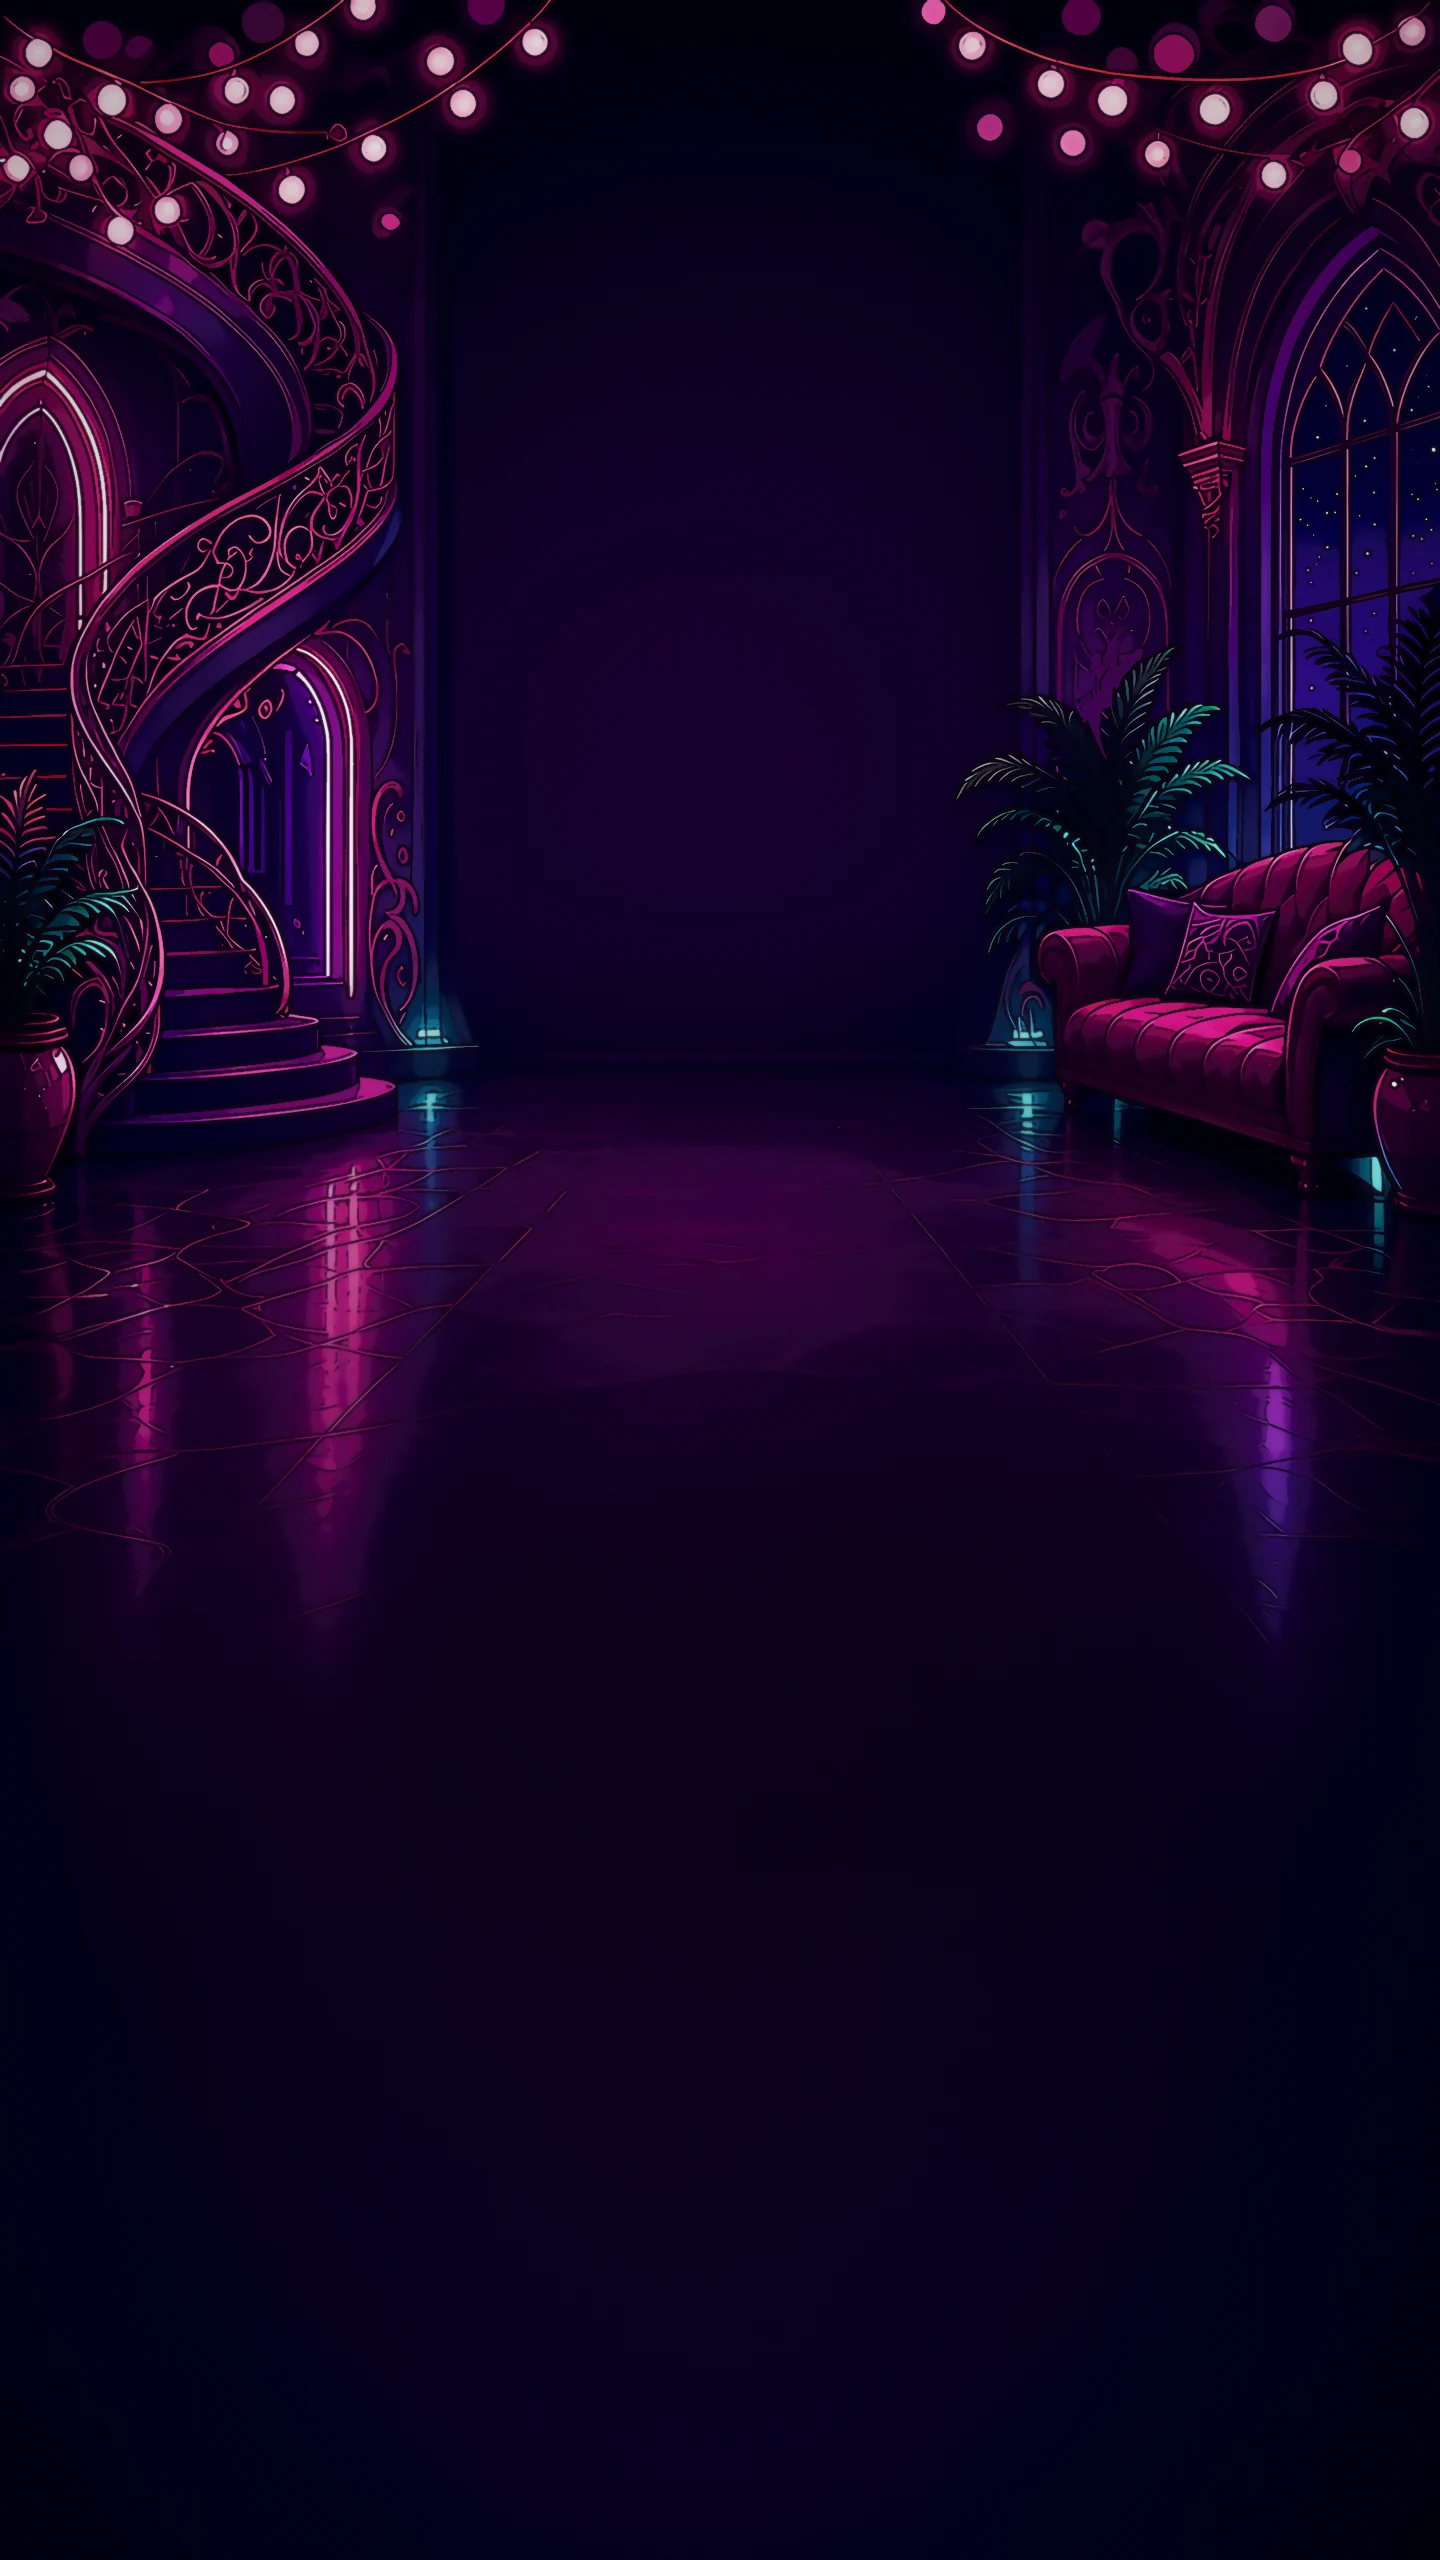
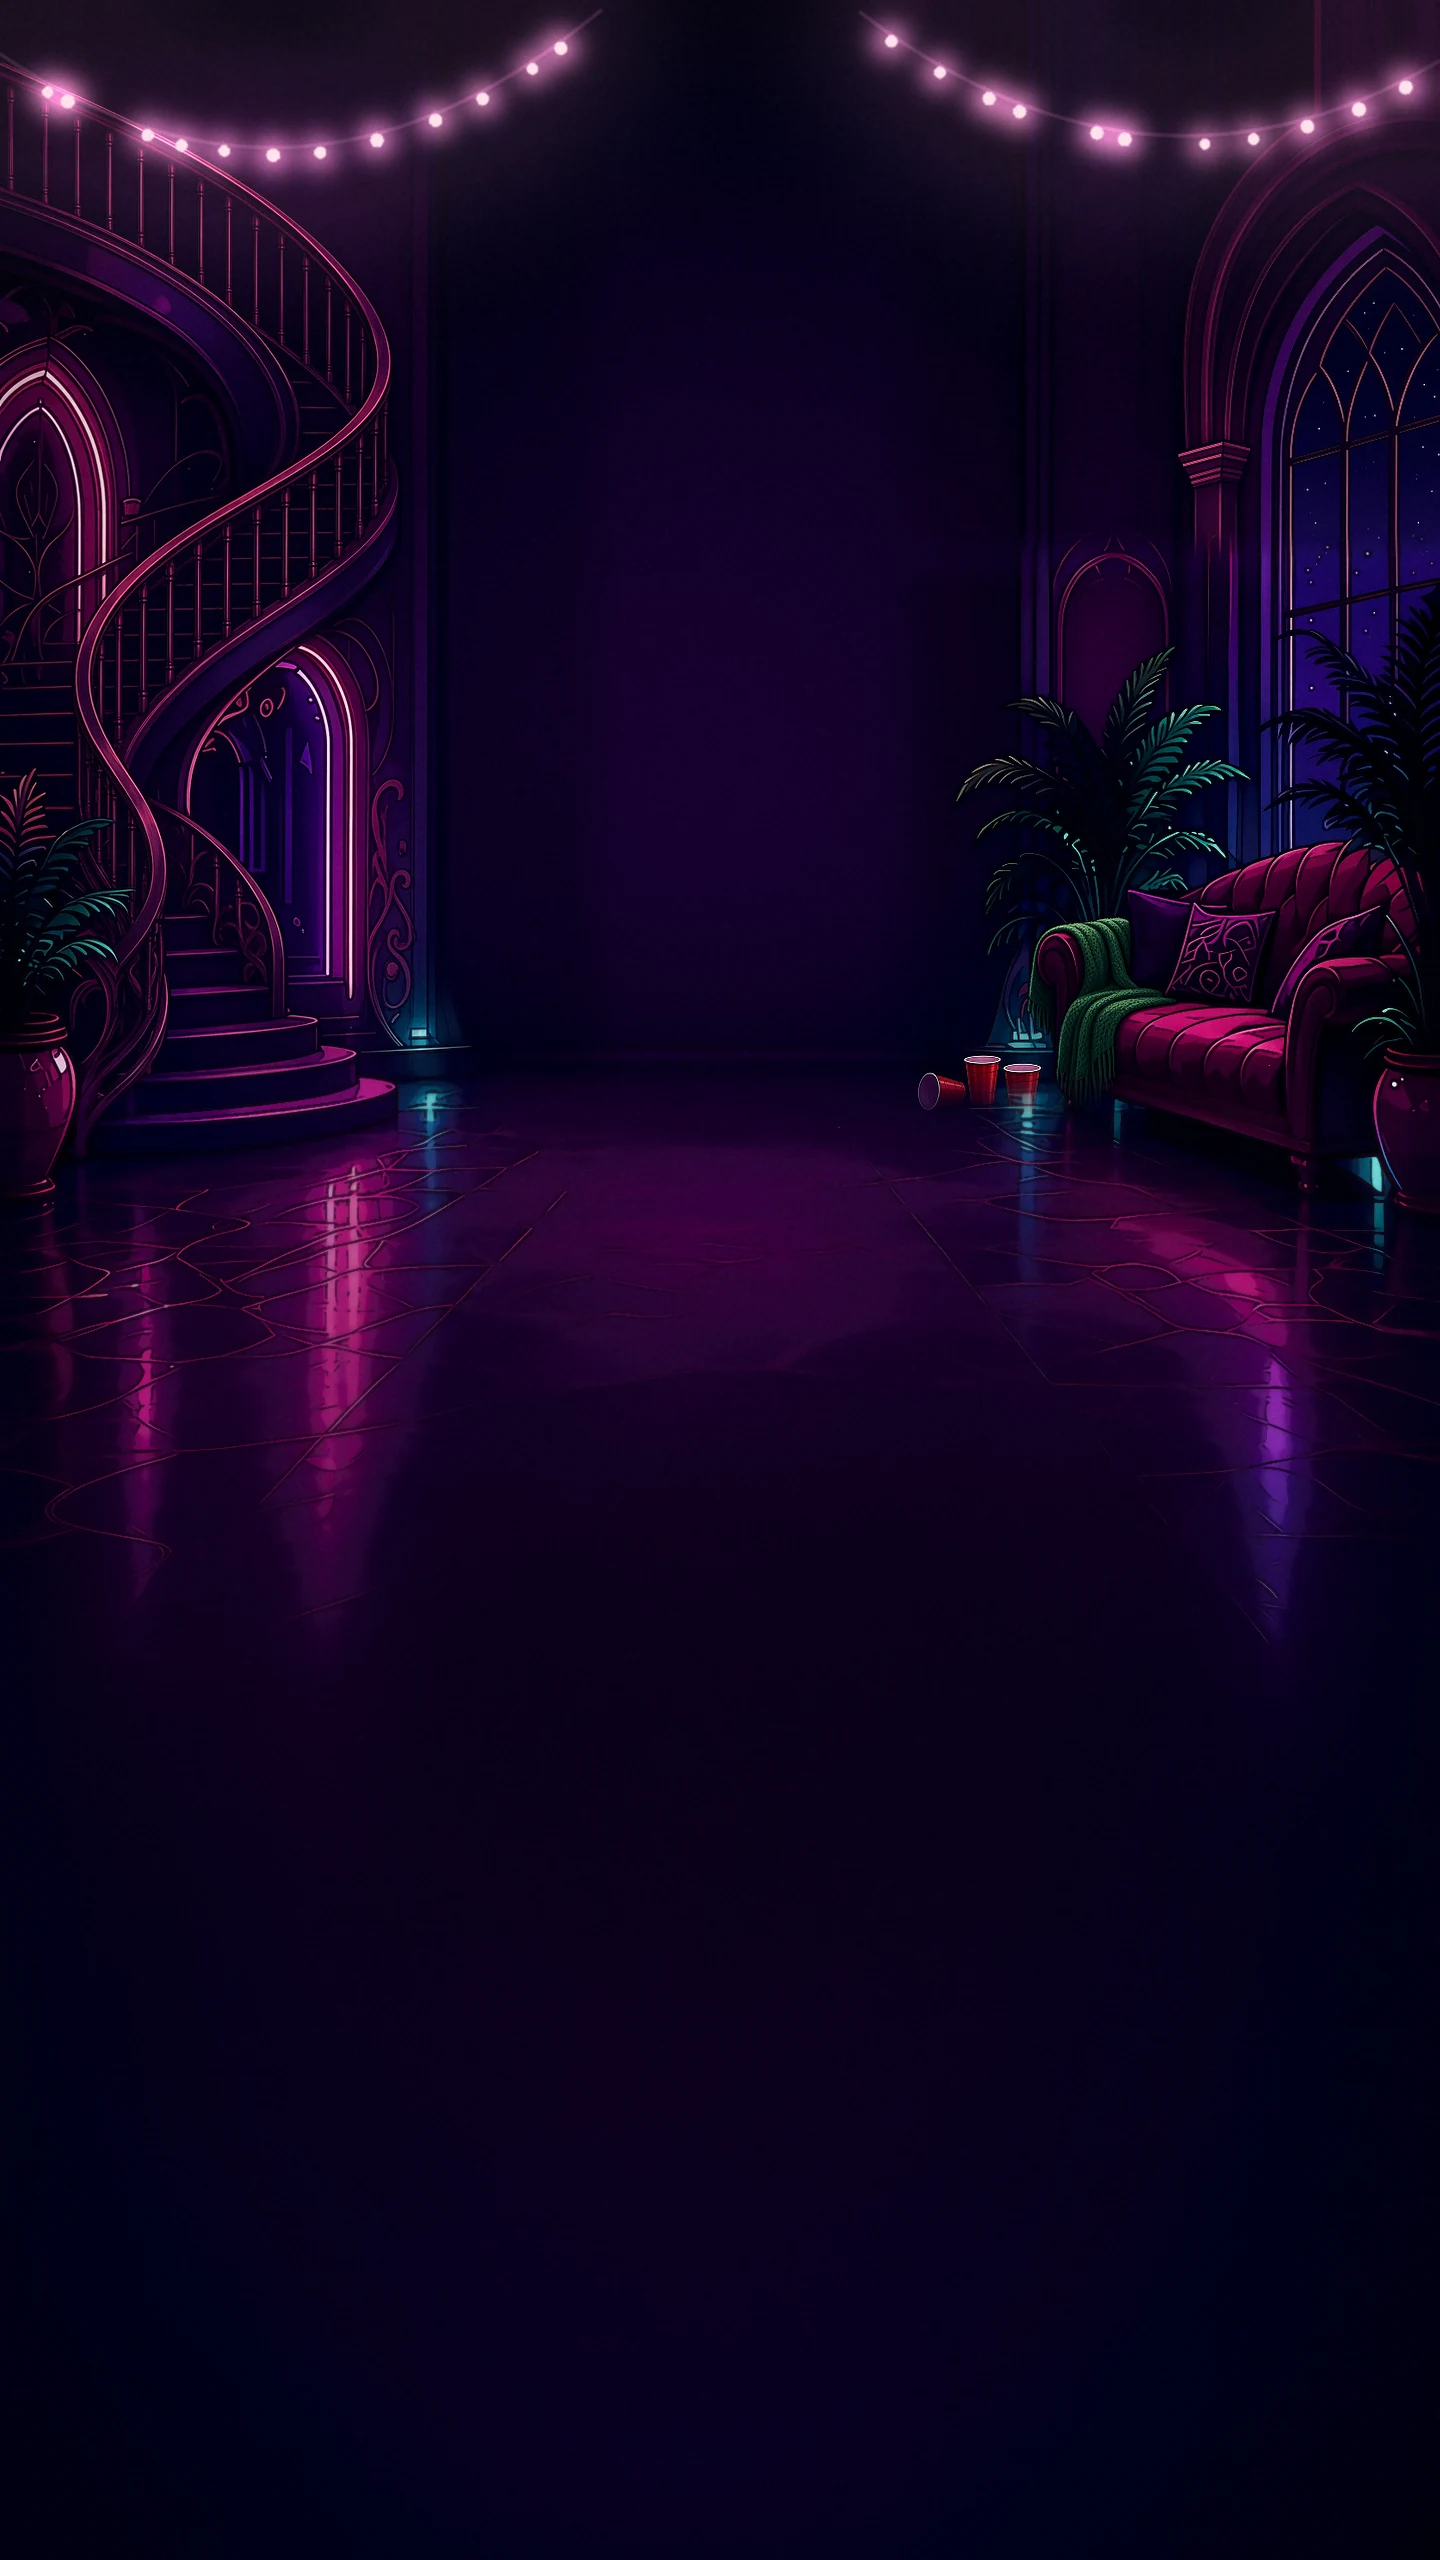
elfhaus art: brand-v3 Lounge retouch (4 bg plates) + carved neon titles (maxwin_title sheet drop-in, 9 titles in assets/final/titles; hookup pending in aifix)

diff --git a/frontend/apps/elfhaus/APPROVED_ASSETS.md b/frontend/apps/elfhaus/APPROVED_ASSETS.md
@@ -24,6 +24,7 @@ Branch `final` is the integration branch. It holds **only** work the user has ap
 | Smooth stacks frame crossfade while slowed | 12396d3 (here 92c4e8c) | 2026-10-25 ~4:20 PM |
 | Win screens: per-elf max-win / big-win sheets (elfrig), slowed ~2x (TEMPO 1.8), lazy decode; p3d max-win title | `/workspace/elfhaus-restyle/winscreens_preview/motion.patch` (15:01 build, sha256 8fb9d3f0…40e8); `maxwin_p3d/sheets/maxwin_title.webp` | 2026-10-25 (max-win slowed motion) |
 | Symbols v3: painted H1–H4, L1–L5, S with neon outline win glow (`_win` = `_glow`), sheets at 12/15 fps; reel blur strips regenerated | `/workspace/elfhaus-symbols-v3/import` via `import-art.mjs symbols`, then `gen_reelblur.py` | 2026-10-25 ~4:30 PM ("go with what we had already decided") |
+| Lounge retouch v3 (clean stair rail, string lights, smooth window sky, corbels on pilasters, ferns, side props, static grain; neon trim unchanged) + carved neon win titles matching the stone logo | `/workspace/elfhaus-brand-v3` lounge/background*.webp (2560x1440 / 1440x2560) -> `assets/final/webp/bg_*` (manifest keys background, background_portrait, background_fs, background_fs_portrait); titles/maxwin_title_sheet.webp -> `src/assets/maxwin/maxwin_title.webp` (same 2256x656 atlas, maxwin_title.json unchanged); all 9 titles/*.webp -> `assets/final/titles/`. Status: **in**. Note: title_<tier>win code hookup (manifest keys + countup) is **pending, owned by aifix**; process/ not imported | 2026-10-25 4:44 PM ("It all looks good to me") |
 | Pipeline/QA commits | 2c88dba fd709ea 477db47 576e609 0f992c6 9b509d6 11b3200 (import guard, dev PORT, egw_wm5 book, runbook, tsc fixes) | n/a (tooling) |
 
 ## Approved but held (do not import yet)
@@ -38,7 +39,6 @@ Branch `final` is the integration branch. It holds **only** work the user has ap
 | Calm reel spin + full-reel stack forming from the merging singles | branch `spinfix` (`/workspace/elfhaus-fe-spinfix`) |
 | Per-elf face reactions after a stack merges | `/workspace/elfhaus-stack-react` |
 | Stacks r8d (cutout halos, one ink colour per group) | `/workspace/elfhaus-frameless/stacks_anim/out` (being rebuilt) |
-| Lounge retouch + neon carved win titles matching the stone logo | `/workspace/elfhaus-brand-v3` (the only active Lounge retouch candidate) |
 | Win-screen cast v6 | `/workspace/elfhaus-restyle/cast_v6` (motion.patch v6) |
 | Roxy out_v2 fixes (incl. the mouth hole) | `/workspace/elfhaus-roxy-p3d` |
 
